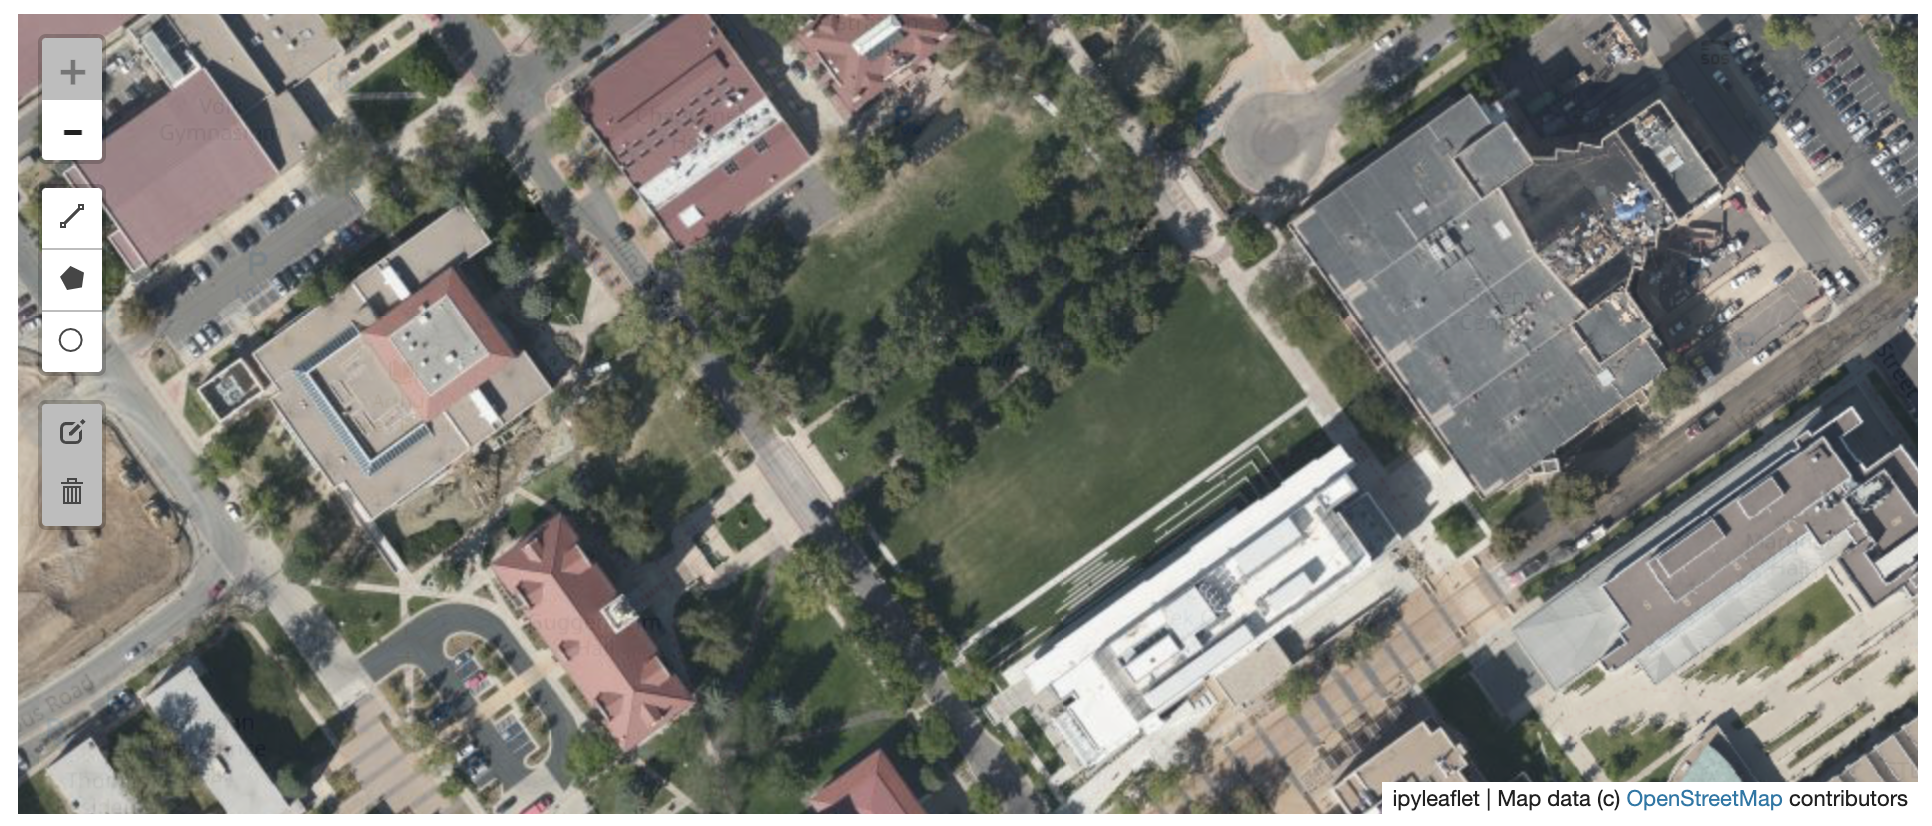
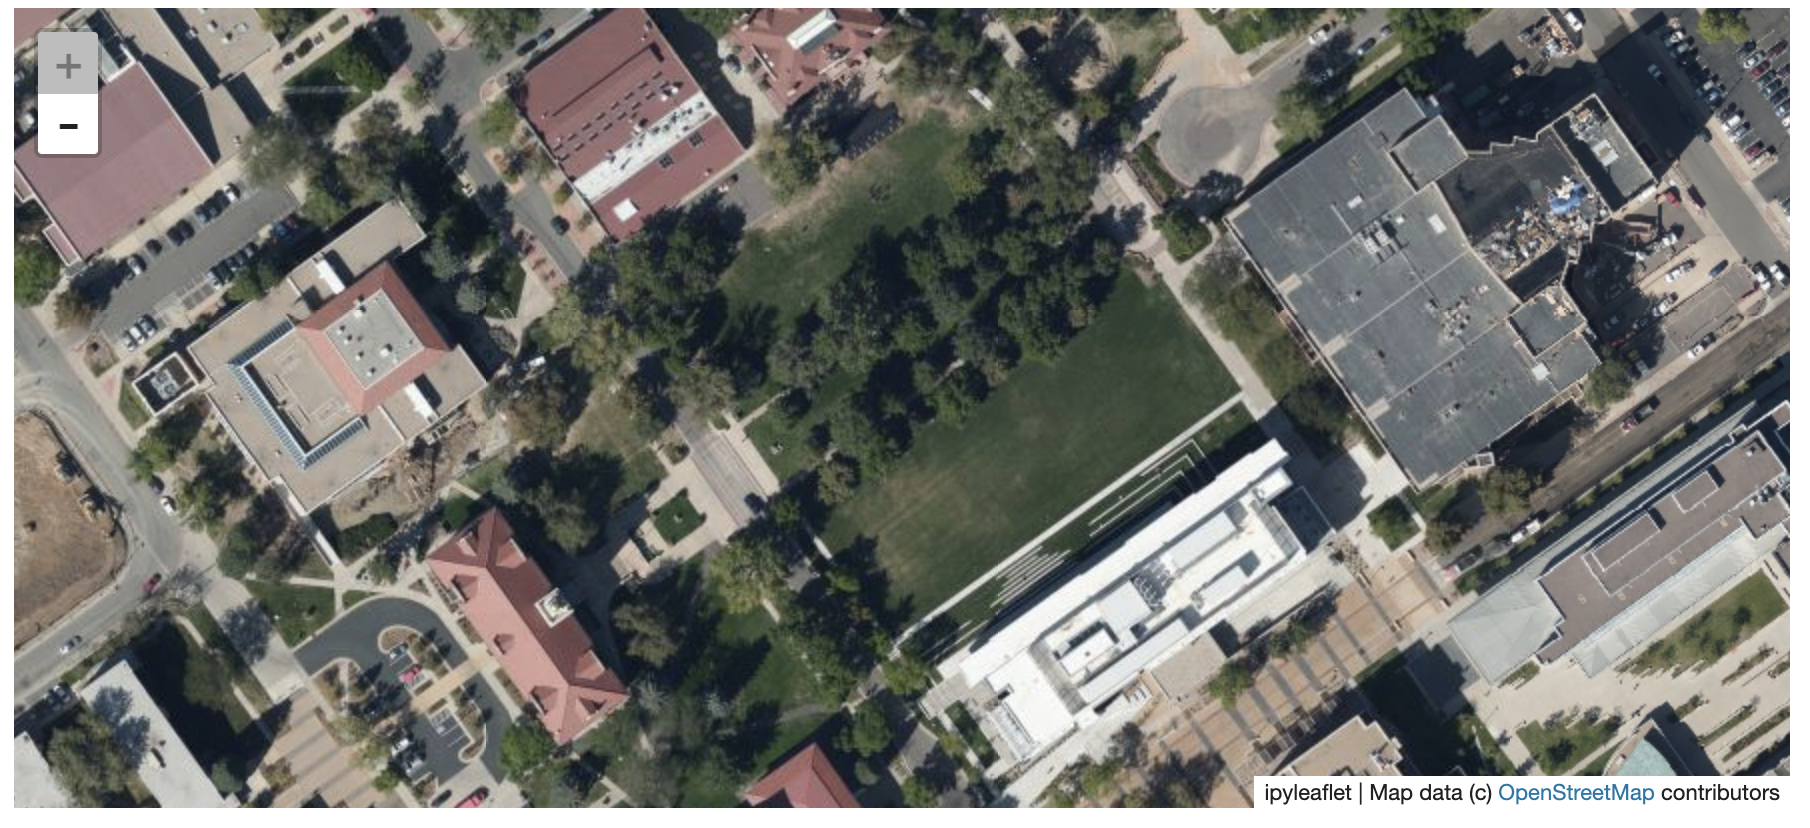
Update virtual earth example

diff --git a/README.md b/README.md
@@ -218,7 +218,7 @@ Here is another example with the Virtual Earth satellite imagery
 
 ```py
 from tileserver import get_leaflet_tile_layer, examples
-from ipyleaflet import Map, DrawControl
+from ipyleaflet import Map
 
 # Load example tile layer from publicly available imagery
 tile_client = examples.get_virtual_earth()
@@ -228,8 +228,6 @@ t = get_leaflet_tile_layer(tile_client, opacity=1)
 
 m = Map(center=(39.751343612695145, -105.22181306125279), zoom=18)
 m.add_layer(t)
-draw_control = DrawControl()
-m.add_control(draw_control)
 m
 ```
 
